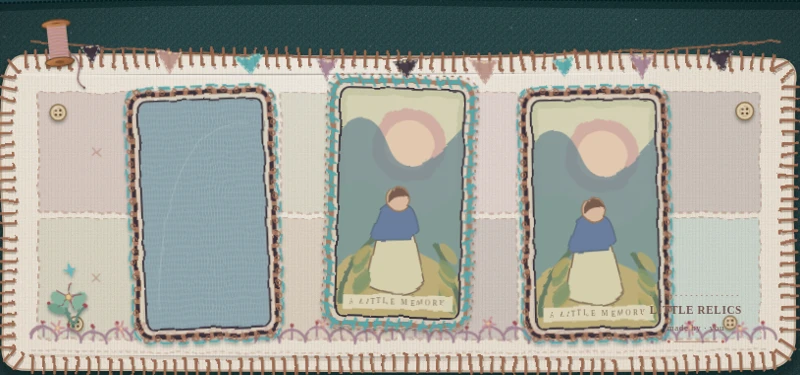
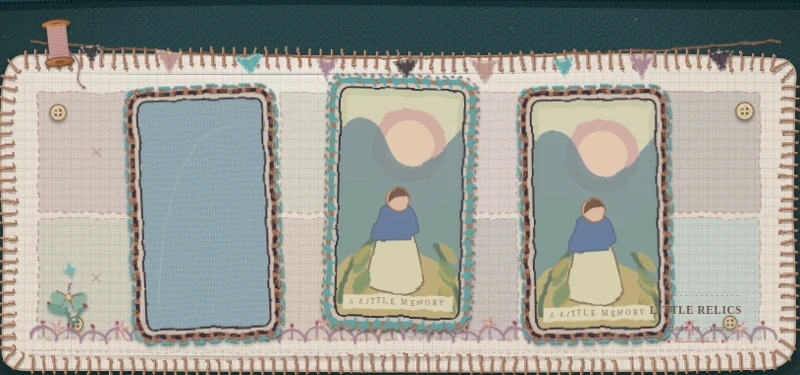
relics: stronger fabric and thread materiality
Coarse weave overlay on the cloth and each patch/flag, denser
grain, drop-shadowed thread borders, stitch sheen highlight on
the perimeter, renamed frame styles to thread-only names.

diff --git a/relics.html b/relics.html
@@ -102,6 +102,9 @@ function defs(){const c=C();return `<defs>
 <filter id="lift" x="-25%" y="-25%" width="150%" height="160%"><feDropShadow dx="0" dy="6" stdDeviation="5" flood-color="#1a2622" flood-opacity=".42"/></filter>
 <filter id="liftSm" x="-30%" y="-30%" width="160%" height="170%"><feDropShadow dx="0" dy="3" stdDeviation="2.5" flood-color="#1a2622" flood-opacity=".4"/></filter>
 <filter id="wobble" x="-5%" y="-5%" width="110%" height="110%"><feTurbulence type="fractalNoise" baseFrequency=".035" numOctaves="2" seed="5" result="t"/><feDisplacementMap in="SourceGraphic" in2="t" scale="7"/></filter>
+<pattern id="weaveOnly" width="7" height="7" patternUnits="userSpaceOnUse"><path d="M0 2h7M0 5h7" stroke="#3a2f22" stroke-width=".7" opacity=".16"/><path d="M2 0v7M5 0v7" stroke="#fff" stroke-width=".6" opacity=".3"/></pattern>
+<pattern id="linenCoarse" width="26" height="26" patternUnits="userSpaceOnUse"><path d="M0 6h26M0 19h26" stroke="#6a563e" stroke-width="1.7" opacity=".1"/><path d="M8 0v26M20 0v26" stroke="#6a563e" stroke-width="1.5" opacity=".09"/><path d="M0 12h26M0 25h26" stroke="#fff" stroke-width="1.1" opacity=".15"/></pattern>
+<filter id="threadShadow"><feDropShadow dx=".7" dy="1.5" stdDeviation=".9" flood-color="#241a10" flood-opacity=".55"/></filter>
 <radialGradient id="beadGrad" cx="35%" cy="28%" r="75%"><stop offset="0" stop-color="#fff" stop-opacity=".65"/><stop offset=".45" stop-color="#fff" stop-opacity="0"/><stop offset="1" stop-color="#000" stop-opacity=".32"/></radialGradient>
 <linearGradient id="woodGrad" x1="0" y1="0" x2="1" y2="1"><stop offset="0" stop-color="#c98d55"/><stop offset=".5" stop-color="#a96b43"/><stop offset="1" stop-color="#7d4e2f"/></linearGradient>
 <radialGradient id="edgeShade" cx="50%" cy="50%" r="72%"><stop offset="0" stop-color="#5a4636" stop-opacity="0"/><stop offset=".82" stop-color="#5a4636" stop-opacity="0"/><stop offset="1" stop-color="#4a382a" stop-opacity=".3"/></radialGradient>
@@ -112,11 +115,11 @@ ${S.layers.filter(l=>l.type==='frame').map(l=>`<clipPath id="clip-${escapeHTML(l
 </defs>`}
 function feltDust(){let o='';for(let i=0;i<380;i++){let x=(i*67.31)%1194+3,y=(i*121.73)%754+3,r=.35+(i%9)*.2;o+=`<circle cx="${rnd(x)}" cy="${rnd(y)}" r="${r}" fill="${i%4===0?'#f7efe2':'#9baaaa'}" opacity="${.07+(i%6)*.025}"/>`;}return o}
 function background(){let c=C();return `<rect width="1200" height="760" fill="url(#felt)"/>${S.background?`<image href="${S.background}" width="1200" height="760" preserveAspectRatio="xMidYMid slice" opacity="${S.backgroundOpacity}"/>`:''}<rect width="1200" height="760" filter="url(#feltGrain)" opacity=".18"/>${feltDust()}<rect width="1200" height="760" fill="url(#vignette)"/><path d="M-8 96 Q300 81 626 86 T1210 92" stroke="#021e1e" stroke-width="21" opacity=".5" fill="none"/><path d="M-8 90 Q300 79 626 81 T1210 85" stroke="#23474b" stroke-width="10" opacity=".7" fill="none"/><path d="M-8 95 Q300 84 626 87 T1210 90" stroke="#061d21" stroke-width="3" stroke-dasharray="4 2" fill="none"/><g fill="#c6d9d4"><g transform="translate(177 39) scale(1.25) translate(-177 -39)" opacity=".8"><path d="M177 39l3 6 7 2-6 5-1 7-6-5-7 1 2-7-4-5 7 0Z"/></g><g transform="translate(653 45) scale(.7) translate(-653 -45)" opacity=".55"><path d="M653 45l3 4 5 0-2 5 2 4-5-1-4 3-1-6-4-3 5-2Z"/></g><circle cx="548" cy="58" r="2.4" opacity=".7"/><circle cx="923" cy="115" r="1.2" opacity=".45"/><circle cx="420" cy="72" r="1.4" opacity=".5"/><g transform="translate(1150 142) scale(.95) translate(-1150 -142)" opacity=".7"><path d="M1150 142l4 4 6-2-1 6 4 4-6 1-2 5-3-5-5-1 4-5Z"/></g></g>`}
-function cloth(){let c=C(),s=pathToStitches(perimeter);return `<g filter="url(#paperShade)"><path d="${shape}" fill="url(#linen)" stroke="#cbb9a2" stroke-width="3"/></g><g clip-path="url(#clothMask)"><rect width="1200" height="760" filter="url(#clothGrain)" opacity=".22"/><rect width="1200" height="760" fill="url(#edgeShade)"/><rect width="1200" height="760" fill="url(#clothSheen)"/><path d="M72 190Q470 196 940 188" stroke="#fff" stroke-width="3" opacity=".23"/><path d="M90 572Q500 584 980 575" stroke="#896b50" opacity=".17" stroke-width="4"/></g><g filter="url(#wobble)"><path d="${s}" fill="none" stroke="#4a3826" stroke-width="5" stroke-linejoin="round" opacity=".3" transform="translate(.8 2.2)"/><path d="${s}" fill="none" stroke="${c.thread}" stroke-width="3.5" stroke-linejoin="round" stroke-linecap="round" opacity=".96"/></g><path d="${shape}" fill="none" stroke="${c.thread}" stroke-width="1.1" opacity=".43"/>`}
+function cloth(){let c=C(),s=pathToStitches(perimeter);return `<g filter="url(#paperShade)"><path d="${shape}" fill="url(#linen)" stroke="#cbb9a2" stroke-width="3"/></g><g clip-path="url(#clothMask)"><rect width="1200" height="760" filter="url(#clothGrain)" opacity=".3"/><rect width="1200" height="760" fill="url(#linenCoarse)"/><rect width="1200" height="760" fill="url(#edgeShade)"/><rect width="1200" height="760" fill="url(#clothSheen)"/><path d="M72 190Q470 196 940 188" stroke="#fff" stroke-width="3" opacity=".23"/><path d="M90 572Q500 584 980 575" stroke="#896b50" opacity=".17" stroke-width="4"/></g><g filter="url(#wobble)"><path d="${s}" fill="none" stroke="#4a3826" stroke-width="5.5" stroke-linejoin="round" opacity=".35" transform="translate(.9 2.4)"/><path d="${s}" fill="none" stroke="${c.thread}" stroke-width="3.5" stroke-linejoin="round" stroke-linecap="round" opacity=".96"/><path d="${s}" fill="none" stroke="#fff6e8" stroke-width="1.4" stroke-linejoin="round" stroke-linecap="round" opacity=".4" transform="translate(-.8 -.9)"/></g><path d="${shape}" fill="none" stroke="${c.thread}" stroke-width="1.1" opacity=".43"/>`}
 function blossom(x,y,s,rot,c1,c2){return `<g transform="translate(${x} ${y}) rotate(${rot}) scale(${s})"><path d="M0 0C-2-7-8-8-8-1Q-4 5 0 0C5-8 11-4 7 2Q2 5 0 0C-8 5-2 11 2 6Q4 3 0 0C9 3 6 11-1 8Q-4 4 0 0" fill="${c1}" stroke="${c2}" stroke-width="1.2"/><circle r="2.3" fill="${c2}"/></g>`}
 function hemStitch(){let c=C(),out='';for(let x=95;x<1105;x+=34){let y=552+3*Math.sin(x*.05);out+=`<path d="M${x} ${y}a17 15 0 0 1 34 0" fill="none" stroke="${c.violet}" stroke-width="3.4" stroke-linecap="round"/><path d="M${x+17} ${y-2}v-16" stroke="${c.violet}" stroke-width="2.6" stroke-linecap="round"/><circle cx="${x+17}" cy="${y-21}" r="2.6" fill="#a04c52"/>`}for(let i=0;i<14;i++){let x=130+i*72+((i*37)%20),y=534+4*Math.sin(i*2.1);for(let p=0;p<5;p++){let a=p/5*Math.PI*2;out+=`<path d="M${x} ${y}Q${x+Math.cos(a)*6} ${y+Math.sin(a)*6} ${x+Math.cos(a)*9} ${y+Math.sin(a)*10}" stroke="#c99095" stroke-width="3" fill="none" stroke-linecap="round"/>`}out+=`<circle cx="${x}" cy="${y}" r="2.4" fill="#e0c68d"/>`}out+=`<path d="M95 566Q600 574 1105 564" stroke="${c.thread}" stroke-width="1.3" opacity=".5" fill="none" stroke-dasharray="6 4"/>`;return `<g filter="url(#wobble)"><g opacity=".94">${out}</g></g>`}
-function bunting(){let c=C(),out='';const x0=95,x1=1120;let cord=t=>{let x=x0+t*(x1-x0);return [x,146+26*Math.sin(t*Math.PI*.9)]};out+=`<path d="M95 146Q600 190 1120 144" fill="none" stroke="${c.thread}" stroke-width="2.6"/><path d="M95 146Q600 190 1120 144" fill="none" stroke="#3d2f22" stroke-width=".9" stroke-dasharray="5 4" opacity=".5"/>`;const fills=[c.plum,'#b68f86',c.accent,c.violet];for(let i=0;i<9;i++){let t=.08+i*.105,[px,py]=cord(t);let w=15+(i%3)*3,h=26+(i%2)*5,f=fills[i%4];out+=`<g transform="translate(${rnd(px)} ${rnd(py)}) rotate(${rnd((i%2?4:-4))})"><path d="M${-w} 0L${w} -1L2 ${h}Z" fill="${f}" opacity=".92"/><path d="M${-w+2} 2L${w-2} 1L2 ${h-3}Z" fill="none" stroke="#f4e8d4" stroke-width="1.4" stroke-dasharray="4 3" opacity=".8"/><circle cy="2" r="1.8" fill="#e0c68d"/></g>`}return `<g filter="url(#wobble)">${out}</g>`}
-function patchwork(){let c=C(),out='';const tints=[['#6d3c48',.16],[c.accent,.2],['#5b7551',.13],[c.violet,.17],['#7a5230',.14],[c.plum,.16]];let k=0;for(let r=0;r<2;r++)for(let col=0;col<6;col++){let x=105+col*166,y=214+r*172;let [fill,op]=tints[(col+r*2)%6];out+=`<rect x="${x}" y="${y}" width="158" height="164" rx="4" fill="${fill}" opacity="${op}"/><rect x="${x}" y="${y}" width="158" height="164" rx="4" fill="none" stroke="${c.thread}" stroke-width="1.6" stroke-dasharray="7 5" opacity=".55"/>`;if(k++%3===0)out+=`<path d="M${x+74} ${y+76}l10 10m-10 0l10 -10" stroke="${c.thread}" stroke-width="2" opacity=".4" stroke-linecap="round"/>`}return `<g clip-path="url(#clothMask)" filter="url(#wobble)">${out}</g>`}
+function bunting(){let c=C(),out='';const x0=95,x1=1120;let cord=t=>{let x=x0+t*(x1-x0);return [x,146+26*Math.sin(t*Math.PI*.9)]};out+=`<path d="M95 146Q600 190 1120 144" fill="none" stroke="${c.thread}" stroke-width="2.6"/><path d="M95 146Q600 190 1120 144" fill="none" stroke="#3d2f22" stroke-width=".9" stroke-dasharray="5 4" opacity=".5"/>`;const fills=[c.plum,'#b68f86',c.accent,c.violet];for(let i=0;i<9;i++){let t=.08+i*.105,[px,py]=cord(t);let w=15+(i%3)*3,h=26+(i%2)*5,f=fills[i%4];out+=`<g transform="translate(${rnd(px)} ${rnd(py)}) rotate(${rnd((i%2?4:-4))})"><path d="M${-w} 0L${w} -1L2 ${h}Z" fill="${f}" opacity=".92"/><path d="M${-w} 0L${w} -1L2 ${h}Z" fill="url(#weaveOnly)"/><path d="M${-w+2} 2L${w-2} 1L2 ${h-3}Z" fill="none" stroke="#f4e8d4" stroke-width="1.4" stroke-dasharray="4 3" opacity=".8"/><circle cy="2" r="1.8" fill="#e0c68d"/></g>`}return `<g filter="url(#wobble)">${out}</g>`}
+function patchwork(){let c=C(),out='';const tints=[['#6d3c48',.16],[c.accent,.2],['#5b7551',.13],[c.violet,.17],['#7a5230',.14],[c.plum,.16]];let k=0;for(let r=0;r<2;r++)for(let col=0;col<6;col++){let x=105+col*166,y=214+r*172;let [fill,op]=tints[(col+r*2)%6];out+=`<rect x="${x}" y="${y}" width="158" height="164" rx="4" fill="${fill}" opacity="${op}"/><rect x="${x}" y="${y}" width="158" height="164" rx="4" fill="url(#weaveOnly)"/><rect x="${x}" y="${y}" width="158" height="164" rx="4" fill="none" stroke="${c.thread}" stroke-width="1.6" stroke-dasharray="7 5" opacity=".55"/>`;if(k++%3===0)out+=`<path d="M${x+74} ${y+76}l10 10m-10 0l10 -10" stroke="${c.thread}" stroke-width="2" opacity=".4" stroke-linecap="round"/>`}return `<g clip-path="url(#clothMask)" filter="url(#wobble)">${out}</g>`}
 function buttons(){let out='';for(let [x,y,r] of [[132,242,11],[1072,240,12],[1052,528,9],[156,530,10]]){out+=`<g transform="translate(${x} ${y})"><circle r="${r}" fill="#d9c9a8" stroke="#8a6f4e" stroke-width="2"/><circle r="${r*.55}" fill="none" stroke="#a08057" stroke-width="1" opacity=".7"/><circle cx="-3" cy="-3" r="1.6" fill="#5e402a"/><circle cx="3" cy="-3" r="1.6" fill="#5e402a"/><circle cx="-3" cy="3" r="1.6" fill="#5e402a"/><circle cx="3" cy="3" r="1.6" fill="#5e402a"/><circle cx="-3" cy="-5" r="2.4" fill="#fff" opacity=".35"/></g>`}return `<g filter="url(#liftSm)">${out}</g>`}
 function bluePlaceholder(w,h){return `<rect x="${-w/2}" y="${-h/2}" width="${w}" height="${h}" fill="url(#blueLinen)"/><path d="M${-w/2+16} ${h/2-28}Q-52 ${-h/2+20} 68 ${-h/2+35}" fill="none" stroke="#ccd3ca" opacity=".3" stroke-width="1.5"/>${Array.from({length:40},(_,i)=>{let x=(i*37)%w-w/2,y=(i*61)%h-h/2;return `<path d="M${x} ${y}l3 3" stroke="#d6e1de" opacity=".18"/>`}).join('')}`}
 function artPlaceholder(w,h){let x=-w/2,y=-h/2;return `<rect x="${x}" y="${y}" width="${w}" height="${h}" fill="url(#parchment)"/><rect x="${x+8}" y="${y+10}" width="${w-16}" height="${h-20}" fill="#ddd7bd" opacity=".6"/><circle cx="10" cy="${y+76}" r="51" fill="#cfa8a0" opacity=".85"/><circle cx="10" cy="${y+76}" r="34" fill="#e5cdb2" opacity=".85"/><path d="M${x} ${y+55} Q${x+40} ${y+15} ${x+66} ${y+78}T${x+w} ${y+52} L${x+w} ${y+h}H${x}Z" fill="#6e8790" opacity=".75"/><path d="M${x} ${y+134} Q-45 ${y+110} -10 ${y+155}T${x+w} ${y+128}L${x+w} ${y+h}H${x}Z" fill="#819c92" opacity=".6"/><path d="M${x} ${y+h-65}Q${x+67} ${y+h-132} ${x+w} ${y+h-55}V${y+h}H${x}Z" fill="#bcac79"/><path d="M-23 ${y+165}Q-5 ${y+142} 13 ${y+166}L37 ${y+h-48}Q10 ${y+h-16}-43 ${y+h-42}Z" fill="#d4cfac" stroke="#816c5a" stroke-width="2"/><path d="M-25 ${y+165}Q-5 ${y+148} 10 ${y+158}Q21 ${y+160} 27 ${y+192}L16 ${y+204}L-40 ${y+207}Z" fill="#6a7e9e" stroke="#5d6e80" stroke-width="2"/><circle cx="-3" cy="${y+149}" r="16" fill="#d9b9a0" stroke="#97785b" stroke-width="2"/><path d="M-16 ${y+146}Q-8 ${y+127} 7 ${y+138}L15 ${y+148}Q-7 ${y+141}-16 ${y+157}Z" fill="#785d4f"/><path d="M-35 ${y+205}q-45 42-44 88M50 ${y+210}q34 60 37 94" stroke="#697c65" stroke-width="7" fill="none"/>${Array.from({length:13},(_,i)=>{let xp=i%2?-50:68,yp=y+222+(i*17)%74;return `<ellipse cx="${xp}" cy="${yp}" rx="7" ry="17" transform="rotate(${i%2?40:-40} ${xp} ${yp})" fill="${i%3?'#83966e':'#b6a66c'}" opacity=".8"/>`}).join('')}<rect x="${x+8}" y="${y+h-30}" width="${w-16}" height="20" fill="#e0d9c0" opacity=".88"/><text x="0" y="${y+h-16}" font-family="Georgia,serif" font-size="10" letter-spacing="3" fill="#86705c" text-anchor="middle">A LITTLE MEMORY</text>`}
@@ -124,7 +127,7 @@ function frame(l){let c=C(),w=l.w,h=l.h,ex=w/2,ey=h/2,bead=l.frame==='bead';let 
 s=`<rect x="${-ex-15}" y="${-ey-15}" width="${w+30}" height="${h+30}" rx="23" fill="#e9ddc6" opacity=".55"/><rect x="${-ex-11}" y="${-ey-11}" width="${w+22}" height="${h+22}" rx="19" fill="none" stroke="${c.thread}" stroke-width="7" opacity=".8"/><rect x="${-ex-11}" y="${-ey-11}" width="${w+22}" height="${h+22}" rx="19" fill="none" stroke="${bead?c.accent:c.plum}" stroke-width="5" stroke-dasharray="14 6"/>${s}<rect x="${-ex-1}" y="${-ey-1}" width="${w+2}" height="${h+2}" rx="12" fill="none" stroke="${c.plum}" stroke-width="2.5"/>`;
 if(bead){let t='';for(let x=-ex-6;x<ex+6;x+=15){t+=`<path d="M${rnd(x)} ${-ey-17}l5 12"/><path d="M${rnd(x)} ${ey+17}l5 -12"/>`}for(let y=-ey-6;y<ey+6;y+=15){t+=`<path d="M${-ex-17} ${rnd(y)}l12 5"/><path d="M${ex+17} ${rnd(y)}l-12 5"/>`}s+=`<g stroke="${c.accent}" stroke-width="3.4" stroke-linecap="round" fill="none" opacity=".9">${t}</g><rect x="${-ex-19}" y="${-ey-19}" width="${w+38}" height="${h+38}" rx="25" fill="none" stroke="${c.thread}" stroke-width="1.6" stroke-dasharray="4 7"/>`}
 else{let t='';for(let x=-ex-2;x<ex+2;x+=17){t+=`<circle cx="${rnd(x)}" cy="${-ey-14}" r="3.2"/><circle cx="${rnd(x)}" cy="${ey+14}" r="3.2"/>`}for(let y=-ey-2;y<ey+2;y+=17){t+=`<circle cx="${-ex-14}" cy="${rnd(y)}" r="3.2"/><circle cx="${ex+14}" cy="${rnd(y)}" r="3.2"/>`}s+=`<rect x="${-ex-19}" y="${-ey-19}" width="${w+38}" height="${h+38}" rx="25" fill="none" stroke="${c.accent}" stroke-width="2.6" stroke-dasharray="16 6"/><g fill="none" stroke="${c.thread}" stroke-width="1.8" opacity=".85">${t}</g>`}
-return `<g filter="url(#wobble)">${s}</g>`}
+return `<g filter="url(#wobble)"><g filter="url(#threadShadow)">${s}</g></g>`}
 function woodCharm(){let thr='';for(let y=-44;y<36;y+=7){thr+=`<path d="M-24 ${y}Q0 ${y+4} 24 ${y}" stroke="#c8a0a4" stroke-width="5.5" fill="none"/><path d="M-24 ${y}Q0 ${y+4} 24 ${y}" stroke="#8f5f66" stroke-width="1.2" fill="none" opacity=".6"/>`}return `<g><ellipse cx="0" cy="-52" rx="36" ry="11" fill="url(#woodGrad)" stroke="#5e402a" stroke-width="2.5"/><ellipse cx="0" cy="-52" rx="12" ry="4" fill="#7d4e2f"/><rect x="-24" y="-52" width="48" height="92" fill="#b98a58"/><rect x="-24" y="-52" width="48" height="92" fill="url(#woodGrad)" opacity=".5"/>${thr}<ellipse cx="0" cy="42" rx="36" ry="11" fill="url(#woodGrad)" stroke="#5e402a" stroke-width="2.5"/><ellipse cx="0" cy="42" rx="12" ry="4" fill="#7d4e2f"/><path d="M24 20q34 22 18 58q-8 20 12 34" stroke="#8f5f66" stroke-width="3" fill="none" stroke-linecap="round"/><path d="M24 20q34 22 18 58q-8 20 12 34" stroke="#c8a0a4" stroke-width="1" fill="none" stroke-dasharray="4 4"/><circle cx="54" cy="112" r="2.6" fill="#5e402a"/></g>`}
 function embroideredFlower(){let c=C();return `<g filter="url(#wobble)"><path d="M0 15Q-7-16-10-33M0 14Q11-6 24-13M-2-5Q-23-10-31-25" stroke="#638b7c" stroke-width="4" stroke-linecap="round" fill="none"/><ellipse cx="-14" cy="-29" rx="9" ry="17" fill="#8ab29b" transform="rotate(-42 -14 -29)"/><ellipse cx="15" cy="-21" rx="9" ry="16" fill="#8ab29b" transform="rotate(41 15 -21)"/><ellipse cx="-21" cy="-15" rx="7" ry="14" fill="#739e8b" transform="rotate(-60 -21 -15)"/><g fill="#c99095" stroke="#8f5f66" stroke-width="1.4">${[0,72,144,216,288].map(a=>`<path d="M0 -30Q${Math.cos(a*Math.PI/180)*14} ${-30+Math.sin(a*Math.PI/180)*14} ${Math.cos(a*Math.PI/180)*22} ${-30+Math.sin(a*Math.PI/180)*22}Q${Math.cos(a*Math.PI/180)*8} ${-30+Math.sin(a*Math.PI/180)*8} 0 -30Z" transform="rotate(0)"/>`).join('')}</g><circle cy="-30" r="4.5" fill="#e0c68d" stroke="#a08057" stroke-width="1.4"/><circle cx="24" cy="-13" r="3" fill="#a04c52"/><circle cx="-31" cy="-25" r="2.6" fill="#a04c52"/><path d="M7-82l3 9 9 2-9 3-3 8-3-9-8-2 8-3Z" fill="#68b6bb"/><circle cy="14" r="2" fill="#47675c"/></g>`}
 function flowerDecor(l){return embroideredFlower()}
@@ -140,7 +143,7 @@ const fc=S.layers.filter(x=>x.type==='frame').length;html+=`<div class="section"
 html+=`<div class="section"><div class="section-heading">当前图层 <span class="badge2">直接点画布即可选择</span></div>`;
 html+=S.layers.map(item=>`<button class="layer-btn ${item.id===S.selected?'selected':''}" data-select="${item.id}"><span class="layer-icon">${icons[item.type]||''}</span><span><strong>${escapeHTML(item.name)}</strong><small>${item.visible?'可移动 · 可旋转 · 可缩放':'已隐藏'}</small></span><span style="margin-left:auto;color:#b7b69d">${item.visible?'◉':'○'}</span></button>`).join('');html+='</div>';
 if(l){html+=`<div class="section"><div class="section-heading">调整 ${escapeHTML(l.name)}</div>`;
-if(l.type==='frame'){html+=`<div class="row" style="margin-bottom:13px"><button class="btn gold" data-upload="${l.id}">＋ 上传图片</button><button class="btn" data-clear-image="${l.id}">恢复示例</button></div>`;html+=slider('图片框宽度','w',115,420,1,l.w,'px')+slider('图片框高度','h',125,440,1,l.h,'px');html+=`<div class="control"><label>边框针法</label><select class="field" data-edit="frame"><option value="braid" ${l.frame==='braid'?'selected':''}>双色锁链绣</option><option value="bead" ${l.frame==='bead'?'selected':''}>彩色珠绣</option></select></div>`}
+if(l.type==='frame'){html+=`<div class="row" style="margin-bottom:13px"><button class="btn gold" data-upload="${l.id}">＋ 上传图片</button><button class="btn" data-clear-image="${l.id}">恢复示例</button></div>`;html+=slider('图片框宽度','w',115,420,1,l.w,'px')+slider('图片框高度','h',125,440,1,l.h,'px');html+=`<div class="control"><label>边框针法</label><select class="field" data-edit="frame"><option value="braid" ${l.frame==='braid'?'selected':''}>锁链环绣边</option><option value="bead" ${l.frame==='bead'?'selected':''}>绕线滚边</option></select></div>`}
 html+=slider('大小','scale',.35,2.8,.01,l.scale,'×')+slider('旋转角度','rotation',-180,180,1,l.rotation,'°');html+=`<div class="row"><button class="btn" data-toggle="${l.id}">${l.visible?'隐藏图层':'显示图层'}</button><button class="btn" data-front="${l.id}">置于顶层</button><button class="btn danger" data-remove="${l.id}">删除</button></div>`;html+='</div>'}
 html+=`<div class="section"><div class="section-heading">新增元素</div>${itemButtons()}<div class="row" style="margin-top:9px"><button class="btn" data-add="frame">＋ 新增图片框</button><button class="btn" data-add="charm">＋ 木质护符</button></div></div>`
 } else if(activeTab==='colors'){
